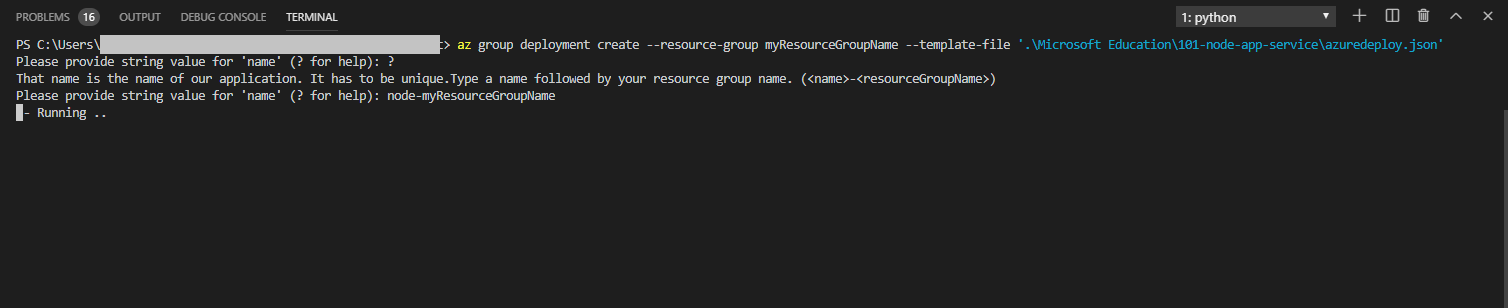
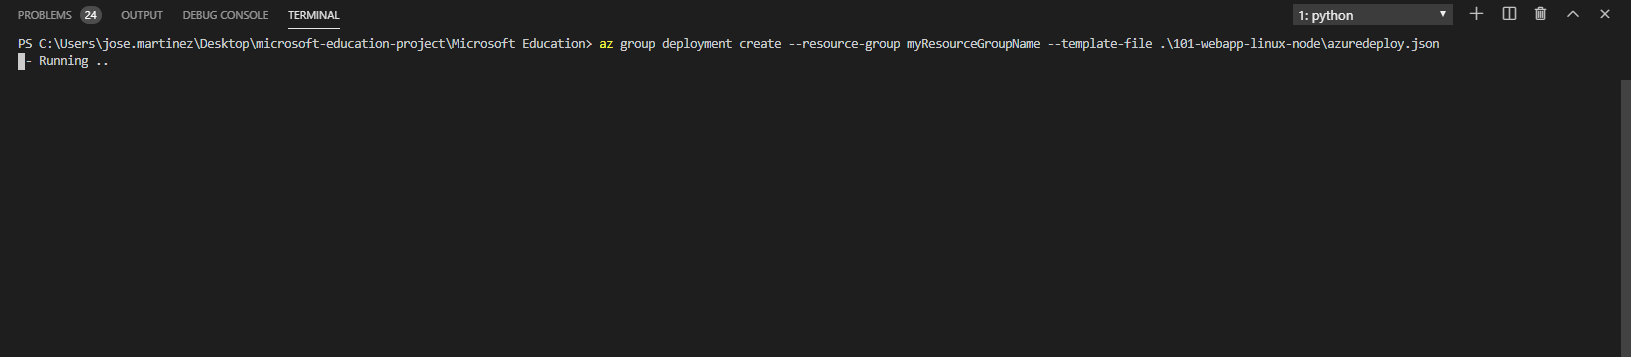
Updated doc format

Changed region(s): [[0.0, 0.0, 0.9973, 0.3799], [0.9662, 0.2045, 1.0, 1.0]]

diff --git a/101-webapp-linux-node/GettingStarted.md b/101-webapp-linux-node/GettingStarted.md
@@ -1,115 +1,129 @@
-# Node App - App Service
+# WebApp with Node
 
-This README intends to deploy a Node App. This template was designed to be an easy and fast way to create an App Service to deploy your Node App.
+The purpose of this ARM Template is **deploy a web app with Node** using a **web app**.
 
-You can deploy this template by using the [Azure Portal](https://docs.microsoft.com/en-us/azure/azure-resource-manager/resource-group-template-deploy-portal) or [Azure CLI](https://docs.microsoft.com/en-us/azure/azure-resource-manager/resource-group-template-deploy-cli). Let's dig on the template and have some fun coding.
+But let's understand a bit better how all this work.
 
-## THE TEMPLATE
+## Overview
 
-In the template, we will have different sections. These sections are:
+Azure App Service is an HTTP-based service for hosting web applications, REST APIs, and mobile back ends. You can develop in your favourite language, be it .NET, .NET Core, Java, Ruby, Node.js, PHP, or Python. Applications run and scale with ease on both Windows and Linux-based environments.
 
-    - Parameters
-    - Variables
-    - Resources
+## Pre Deployment Steps
 
-Let's see each section.
+Before proceeding to the deployment of the template, we need to perform the following steps.
 
-### Parameters
+### The Template
 
-The parameters are fields that we should modify our App Service.
-Here, we will find only a parameter:
+Don't let the size of the template scares you. The structure is very intuitive and once that you get the gist of it, you will see how easier your life will be regarding deploying resources to Azure.
 
-|**PARAMETERS NAME**   |**DESCRIPTION**   |
-|---|---|
-|webAppName   |Name for your application. It has to be unique.   |
-|location   |Location for the deploy of our resources.   |
+Those are the parameters on the template. Most of them are already with the values, the ones that you need to inform are **web app name** and **location**.
 
-To ensure that this name is unique, we will add to that name, the name of the resource group where we will deploy the App Service to the name field. The format will be like follows:
-**'appServiceName'-'resourceGroupName'**
-
-### Variables
-
-The variables are fields that we should not modify. That's because it is configured to get our App Service deployed into a Free tier.
-
-On that template, we have the following variables:
-
-|**VARIABLES NAME**   |**DESCRIPTION**   |
-|---|---|
-|alwaysOn   |It allows us to have the app On even if it is no traffic.   |
-|sku   |Shape for our product.   |
-|skuCode   |Code to identify our product.   |
-|workerSize   |Optional. The worker size. Possible values are Small, Medium, and Large. For JSON, the equivalents are 0 = Small, 1 = Medium, and 2 = Large   |
-|workerSizeId   |Gets or sets size ID of machines: 0 - Small 1 - Medium 2 - Large   |
-|numberOfWorkers   |Gets or sets number of workers.   |
-|linuxFxVersion   |The Linux APP Framework and version.   |
-|hostingPlanName   |Name for the hosting plan. On the free tier, you can only have 1 Linux hosting environment.   |
-
-### Resources
-
-The resources are the services that we will deploy into Azure. In this template we will deploy two resources:
-
-|**RESOURCE NAME**   |**DESCRIPTION**   |
-|---|---|
-|Microsoft.Web/sites   |This is our App Service.   |
-|Microsoft.Web/serverfarms   |This is the hosting for our App Service. There is a limit of 1 free tier Linux server per subscription.   |
+Parameter         | Suggested value     | Description
+:--------------- |:-------------      |:---------------------
+**webAppName** |*location*-*name*-*enviroment* i.e.:  uks-name-tst  | A globally unique name of azure web app. I recommend you to use the notation above, that will help to create a unique name for your Web Application. The name must use alphanumeric and underscore characters only. There is a 35 character limit to this field. The App name cannot be changed once the Web App is created.
+**location**| The default location | Select the geographic location for your resource group.
+**Resource Group**| your resource group |  That is the Resource Group that you need to deploy your resources.
 
 ## Deployment
 
 There are a few ways to deploy this template.
 You can use [PowerShell](https://docs.microsoft.com/en-us/azure/azure-resource-manager/resource-group-template-deploy), [Azure CLI](https://docs.microsoft.com/en-us/azure/azure-resource-manager/resource-group-template-deploy-cli), [Azure Portal](https://docs.microsoft.com/en-us/azure/azure-resource-manager/resource-group-template-deploy-portal) or your favorite SDK.
 
-For this task, we will deploy using the Portal and Azure CLI, I choose to use the Visual Code with Azure CLI extensions, if you like, you can find more information [here](https://code.visualstudio.com/docs/azure/extensions). But bare in mind that you don't need to use the Visual Code, you can stick with the old good always present **Command Line** on Windows or any **bash terminal**.
+For Azure CLI I'm using the Visual Code with Azure CLI extensions, if you like, you can find more information [here](https://code.visualstudio.com/docs/azure/extensions). But bare in mind that you don't need to use the Visual Code, you can stick with the old good always present **Command Line** on Windows or any **bash terminal**
 
 ### Using Azure CLI with Visual Code
 
-Type on the terminal windows:
-**az login**
+Type on the terminal window: **az login**
 
 ![Screen](./images/az-log.png)
 
-You gonna be redirected to the Azure Portal where you can use your credentials to login into.
+You will be redirected to the Azure Portal where you can insert your credentials and log in.
 
-After login, you gonna have your credentials. 
+After logged in, you will see your credentials on the terminal.
 
-To set the right subscription, you can use the following command:
-**az account set --subscription "your subscription id"**
+To set the right subscription, type following command:
+
+#### az account set --subscription "your subscription id"
 
 ### Resource Group
 
-A resource group is a container that holds related resources for an Azure solution. The resource group includes those resources that you want to manage as a group.
+Now you need a Resource Group for our deployment. If you haven't yet created a Resource Group, you can do it now. If you are new on Azure and wonder what is a Resource Group? Bare with me! A Resource Group is a container that holds related resources for an Azure solution. The resource group includes those resources that you want to manage as a group. Simply saying, it's like a folder that contains files. Simple as that.
 
-We gonna need to create a resource group for our deployment if we haven't yet create a resource group.
+To create a Resource Group, you need a name and a location for your Resource Group.
 
-To create a resource group, we will need a name and the location. For a list of locations, type:
-**az account list-locations**
+For a list of locations, type: **az account list-locations**
 
-To create the resource group, just type the command:
-**az group create --name 'mygroupname' --location thelocation**
+To create the Resource group, type the command:
+
+#### az group create --name "resource-group" --location "your location"
 
 ![Screen](./images/az-groupcreate.png)
 
-Now, we are ready to deploy our template. Type the next command to get it:
-**az group deployment create --resource-group 'your resource-group name' --template-file 'full path and name of your template'**
+Super simple, right? Now that we have our **Resource Group** created, let's deploy the WebApp.
+
+#### az group deployment create --resource-group "resource-group" --template-file "azuredeploy.json path"
 
 ![Screen](./images/az-group-deploy.png)
 
-It will spend some time on the deployment. Bring it like 5 minutes until the process finish.
+Insert the values for the parameters.
+As you can see, it's running.
 
-When it finished, let's go to the Portal, and let's see our App Services.
+Go grab a cup of coffee, have some fresh air. Before you come back you will have your WebApp.
+
+And there we go, your deployment is Succeeded. Let's check the resource on the [Azure Portal](https://portal.azure.com).
+
+On the portal, go to Resource Groups. In this blade, you can see the Resource Group that you created.
+
+Click on the Resource Group and there it's the resources
 
 ![Screen](./images/portal-resource.png)
 
 Congratulations! You have deployed the template successfully. We can see our web visiting an URL like that:
-**app-name.azurewebsites.net**
 
-You can redeploy it automatically with just click on this button:
+#### webAppName.azurewebsites.net
 
-<a href="https://portal.azure.com/#create/Microsoft.Template/uri/https%3A%2F%2Fraw.githubusercontent.com%2FAzure4StudentQSTemplates%2Fazure-quickstart-templates%2Fmaster%2F101-webapp-with-node%2Fazuredeploy.json" target="_blank">
+### Using the Portal
+
+At the Portal, in All Services look for **Templates**, you can favourite this service.
+
+Click in **Add** to add your template:
+
+On General, type the name and the description for your template, and click on [Ok].
+
+![Screen](./images/aztemplate2.png)
+
+On ARM Template, replace the contents of the template with your template, and click on [OK] and then on [Add].
+
+![Screen](./images/aztemplate3.png)
+
+Click on the refresh button and you will find your template. Click on it and the click in [Deploy].
+
+![Screen](./images/azportaldeploy.png)
+
+On the screen Custom Deployment, inform the values for the parameters, by now you must be already familiar with.
+
+Select [Agree] and click on [Purchase].
+
+![Screen](./images/azportaldeploy2.png)
+
+As you can see, it's deploying.
+
+After a couple of minutes, voilà, you have your Web App deployed.
+
+![Screen](./images/azportaldeploy3.png)
+
+Go to the Resource. Repeat the test that you have done before.
+
+**p.s.: Pretty easy to create resources on Azure, right? But if you are the sort of IT guy that always loves automation, here is the surprise. Just click on the button below and it will automatically deploy the VM through the  Azure Portal.**
+
+<a href="https://portal.azure.com/#create/Microsoft.Template/uri/https%3A%2F%2Fraw.githubusercontent.com%2FAzure%2Fazure-quickstart-templates%2Fmaster%2F101-webapp-linux-node%2Fazuredeploy.json" target="_blank">
     <img src="https://raw.githubusercontent.com/Azure/azure-quickstart-templates/master/1-CONTRIBUTION-GUIDE/images/deploytoazure.png"/>
 </a>
-<a href="http://armviz.io/#/?load=https%3A%2F%2Fraw.githubusercontent.com%2FAzure4StudentQSTemplates%2Fazure-quickstart-templates%2Fmaster%2F101-webapp-with-node%2Fazuredeploy.json" target="_blank">
+<a href="http://armviz.io/#/?load=https%3A%2F%2Fraw.githubusercontent.com%2FAzure%2Fazure-quickstart-templates%2Fmaster%2F101-webapp-linux-node%2Fazuredeploy.json" target="_blank">
     <img src="https://raw.githubusercontent.com/Azure/azure-quickstart-templates/master/1-CONTRIBUTION-GUIDE/images/visualizebutton.png"/>
 </a>
+
+#### Important disclaimer: Azure charges you for the resources you are using, and you don't want to finish all your credits at once, right? So, don't forget to stop the ___Service___ at the portal or even delete the Resource Group you have created to avoid unnecessary charges
 
 ### Deploy your code
 
@@ -132,12 +146,14 @@ Congratulations, now you have deployed your node app in azure.
 
 ### How to delete your resources
 
-On the portal, open your resource group and click on the Delete button.
+#### Using the portal
+
+On the portal, open your Resource Group, if you will not use the Web App anymore, you can just click on the [Delete] button.
 
 ![Screen](./images/delete-rsc.png)
 
-### What to do if the deployment fails
+You can also just stop the Web App in case you gonna need the resource. Open the resource and click on Stop.
 
-When we are trying to deploy our template, we can find that this fails. If that happens, what we will do it is to delete the resource group and then redeploy our template.
+![Screen](./images/stop-rsc.png)
 
-To delete the resource group, we will go to our resource group, and then, we will delete it the same that we made on the last section
+Just refresh your screen and you are good to go.

diff --git a/101-webapp-linux-node/README.md b/101-webapp-linux-node/README.md
@@ -1,39 +1,35 @@
-# Deploy a Node app
+# Deploy a Node app service
 
-<IMG SRC="https://azurequickstartsservice.blob.core.windows.net/badges/101-webapp-with-node/PublicLastTestDate.svg" />&nbsp;
-<IMG SRC="https://azurequickstartsservice.blob.core.windows.net/badges/101-webapp-with-node/PublicDeployment.svg" />&nbsp;
+<IMG SRC="https://azurequickstartsservice.blob.core.windows.net/badges/101-webapp-linux-node/PublicLastTestDate.svg" />&nbsp;
+<IMG SRC="https://azurequickstartsservice.blob.core.windows.net/badges/101-webapp-linux-node/PublicDeployment.svg" />&nbsp;
 
-<IMG SRC="https://azurequickstartsservice.blob.core.windows.net/badges/101-webapp-with-node/FairfaxLastTestDate.svg" />&nbsp;
-<IMG SRC="https://azurequickstartsservice.blob.core.windows.net/badges/101-webapp-with-node/FairfaxDeployment.svg" />&nbsp;
+<IMG SRC="https://azurequickstartsservice.blob.core.windows.net/badges/101-webapp-linux-node/FairfaxLastTestDate.svg" />&nbsp;
+<IMG SRC="https://azurequickstartsservice.blob.core.windows.net/badges/101-webapp-linux-node/FairfaxDeployment.svg" />&nbsp;
 
-<IMG SRC="https://azurequickstartsservice.blob.core.windows.net/badges/101-webapp-with-node/BestPracticeResult.svg" />&nbsp;
-<IMG SRC="https://azurequickstartsservice.blob.core.windows.net/badges/101-webapp-with-node/CredScanResult.svg" />&nbsp;
+<IMG SRC="https://azurequickstartsservice.blob.core.windows.net/badges/101-webapp-linux-node/BestPracticeResult.svg" />&nbsp;
+<IMG SRC="https://azurequickstartsservice.blob.core.windows.net/badges/101-webapp-linux-node/CredScanResult.svg" />&nbsp;
 
-<a href="https://portal.azure.com/#create/Microsoft.Template/uri/https%3A%2F%2Fraw.githubusercontent.com%2FAzure4StudentQSTemplates%2Fazure-quickstart-templates%2Fmaster%2F101-webapp-with-node%2Fazuredeploy.json" target="_blank">
+<a href="https://portal.azure.com/#create/Microsoft.Template/uri/https%3A%2F%2Fraw.githubusercontent.com%2FAzure%2Fazure-quickstart-templates%2Fmaster%2F101-webapp-linux-node%2Fazuredeploy.json" target="_blank">
     <img src="https://raw.githubusercontent.com/Azure/azure-quickstart-templates/master/1-CONTRIBUTION-GUIDE/images/deploytoazure.png"/>
 </a>
-<a href="http://armviz.io/#/?load=https%3A%2F%2Fraw.githubusercontent.com%2FAzure4StudentQSTemplates%2Fazure-quickstart-templates%2Fmaster%2F101-webapp-with-node%2Fazuredeploy.json" target="_blank">
+<a href="http://armviz.io/#/?load=https%3A%2F%2Fraw.githubusercontent.com%2FAzure%2Fazure-quickstart-templates%2Fmaster%2F101-webapp-linux-node%2Fazuredeploy.json" target="_blank">
     <img src="https://raw.githubusercontent.com/Azure/azure-quickstart-templates/master/1-CONTRIBUTION-GUIDE/images/visualizebutton.png"/>
 </a>
 
-This template allows you to deploy your Node app using App Service. This will deploy a Free App Service in a Resource Group that we should create before launch our template.
+This template deploys a web app with Node support to let us upload a Node-based app. The web app with Node is an app service that allows you to deploy your Node website. This will deploy a free tier Linux App Service Plan where you will host your app service.
 
-## Parameters
+If you are new to Azure App Service, see:
 
-|**PARAMETERS NAME**   |**DESCRIPTION**   |
-|---|---|
-|webAppName   |Name for your application. It has to be unique.   |
-|location   |Location for the deploy of our resources.   |
+- [Azure App Service](https://azure.microsoft.com/en-us/services/app-service/web/)
+- [Template reference](https://docs.microsoft.com/es-es/azure/templates/microsoft.web/allversions)
+- [Quickstart templates](https://azure.microsoft.com/es-es/resources/templates/?resourceType=Microsoft.Compute&pageNumber=1&sort=Popular&term=web+apps)
 
-## Variables
+If you are new to template deployment, see:
 
-|**VARIABLES NAME**   |**DESCRIPTION**   |
-|---|---|
-|alwaysOn   |It allows us to have the app On even if it is no traffic.   |
-|sku   |Shape for our product.   |
-|skuCode   |Code to identify our product.   |
-|workerSize   |Optional. The worker size. Possible values are Small, Medium, and Large. For JSON, the equivalents are 0 = Small, 1 = Medium, and 2 = Large   |
-|workerSizeId   |Gets or sets size ID of machines: 0 - Small 1 - Medium 2 - Large   |
-|numberOfWorkers   |Gets or sets number of workers.   |
-|linuxFxVersion   |The Linux APP Framework and version.   |
-|hostingPlanName   |Name for the hosting plan. On free tier, you can only have 1 Linux hosting environment in your subscription.   |
+[Azure Resource Manager documentation](https://docs.microsoft.com/azure/azure-resource-manager/)
+
+## Prerequisites
+
+If you have already a Linux App Service Plan, you will have to deploy the new web app into the same resource group that the other web app is. That's because Student accounts has a limit of only 1 free tier Linux app service plan.
+
+`Tags: Azure4Student, appServices , node, linux, Beginner`
